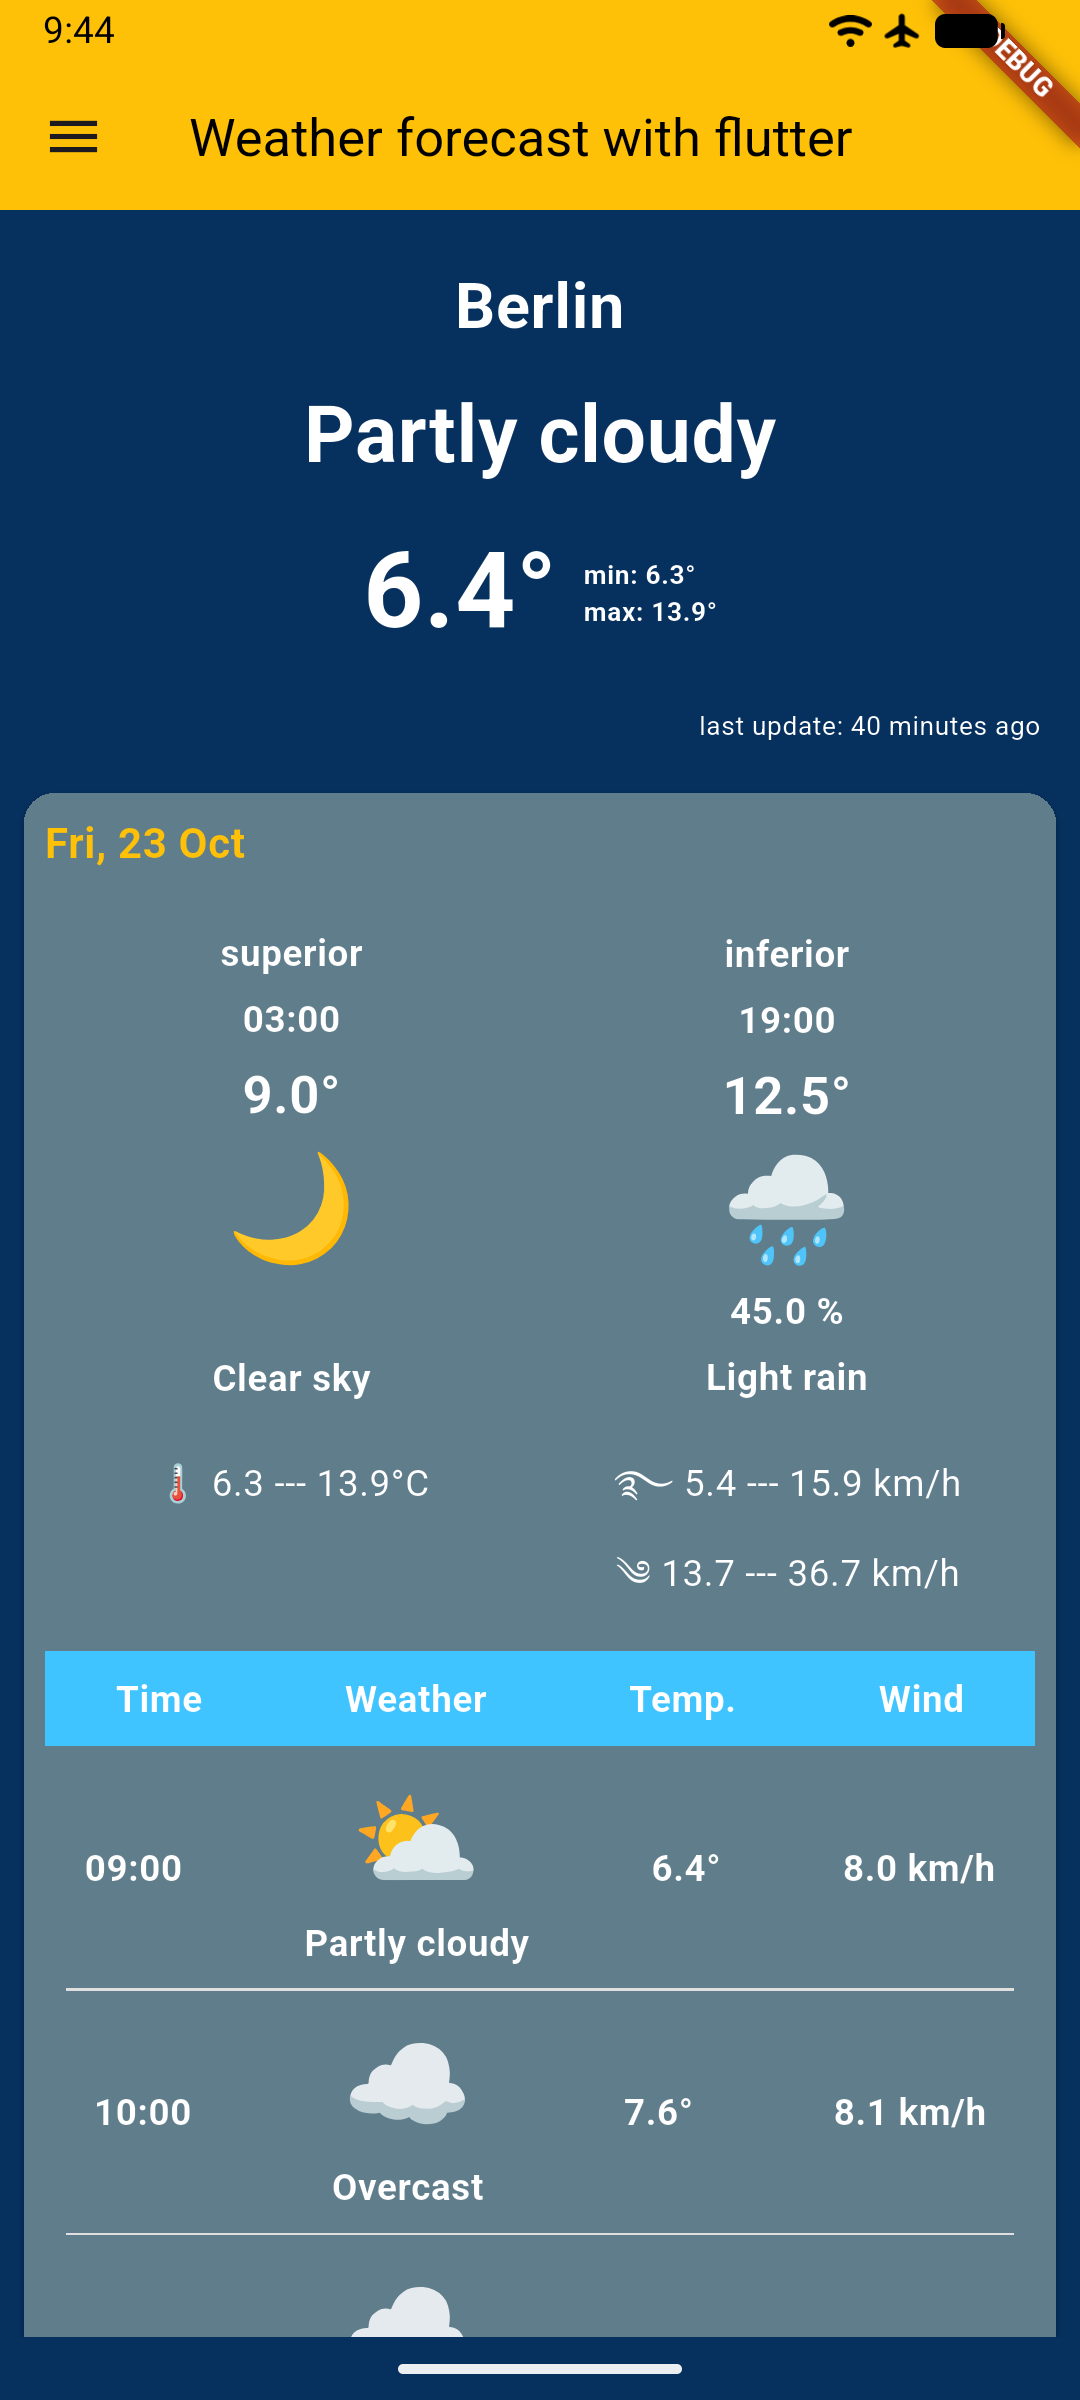
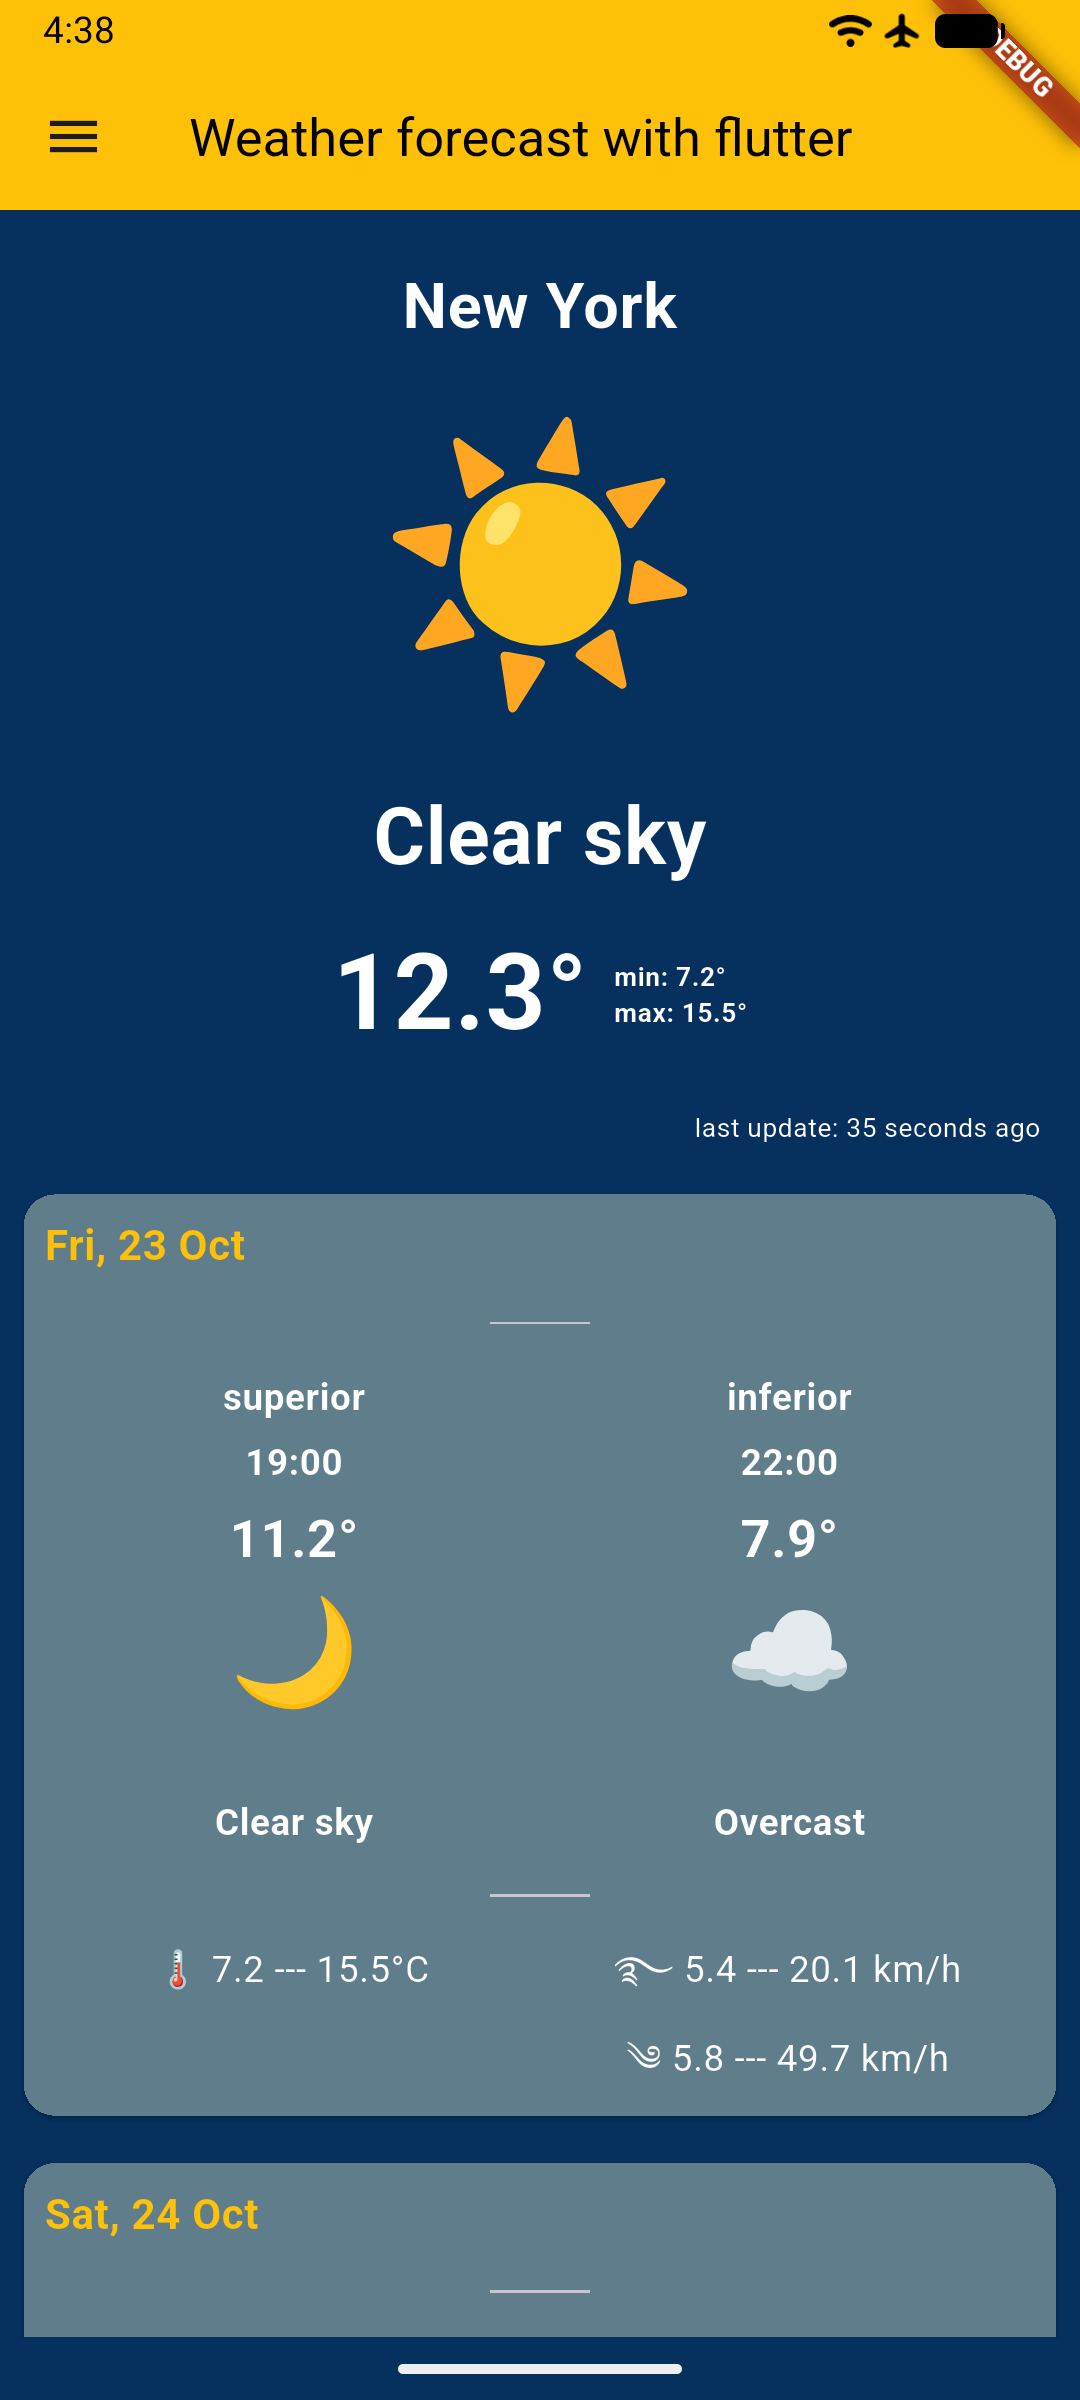
enhanced: main screen UI

diff --git a/lib/presentation/widgets/weather_now.dart b/lib/presentation/widgets/weather_now.dart
@@ -8,6 +8,7 @@ import '../../services/open_weather_service/types/event.dart';
 import '../../services/open_weather_service/types/weather_item.dart';
 import '../../tools/location_time.dart';
 import '../formatters/weathers_labels.dart';
+import 'weather_emoji.dart';
 
 class const WeatherNow({
   super.key,
@@ -32,6 +33,10 @@ class const WeatherNow({
               style: AppTextStyles.textExtraLarge.copyWith(fontWeight: .bold),
               textAlign: .center,
             ),
+
+          const SizedBox(height: 10),
+
+          if (currentWeather != null) WeatherEmoji(type: currentWeather.item.type, date: currentWeather.start, size: 100),
 
           const SizedBox(height: 10),
 
